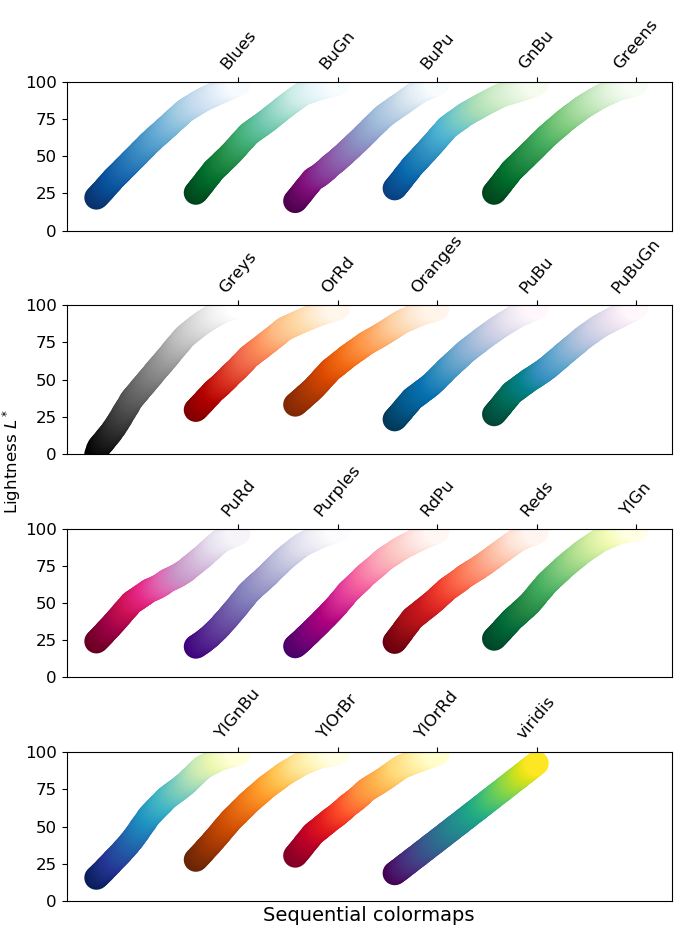
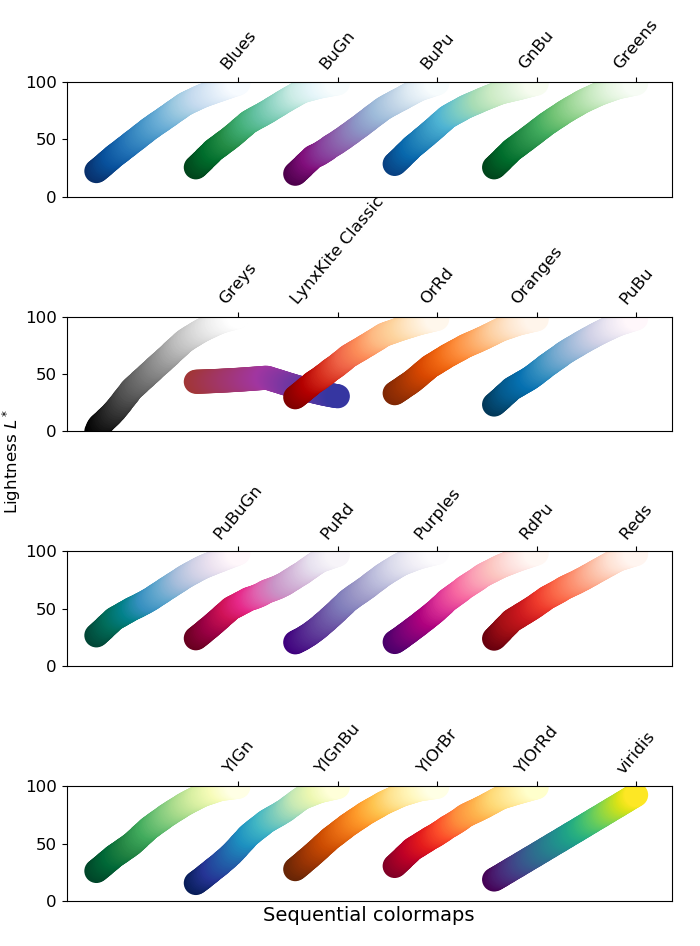
Add LynxKite Classic colormap.

diff --git a/web/app/scripts/project/graph-view.js b/web/app/scripts/project/graph-view.js
@@ -476,10 +476,7 @@ angular.module('biggraph').directive('graphView', function(util, $compile, $time
       bounds.span = bounds.max - bounds.min;
     }
     const reversed = mapName && mapName.includes(' 🗘');
-    const scale = mapName
-      ? chroma.scale(mapName.replace(' 🗘', ''))
-      // LynxKite classic.
-      : chroma.scale(['hsl(240,50%,42%)', 'hsl(360,50%,42%)']).mode('hsl');
+    const scale = chroma.scale((mapName || 'LynxKite Classic').replace(' 🗘', ''));
     const colorMap = {};
     for (let v of values) {
       colorMap[v] = scale(0.5 + common.normalize(v, bounds) * (reversed ? -1 : 1));

diff --git a/web/app/scripts/app.js b/web/app/scripts/app.js
@@ -141,3 +141,8 @@ angular
       return encodeURIComponent(x);
     };
   });
+
+/* global chroma */
+chroma.brewer['LynxKite Classic'] = chroma.brewer['lynxkite classic'] = [
+  '#3636a1', '#4b36a1', '#6136a1', '#7636a1', '#8c36a1', '#a136a1',
+  '#a1368c', '#a13676', '#a13661', '#a1364b', '#a13636'];
